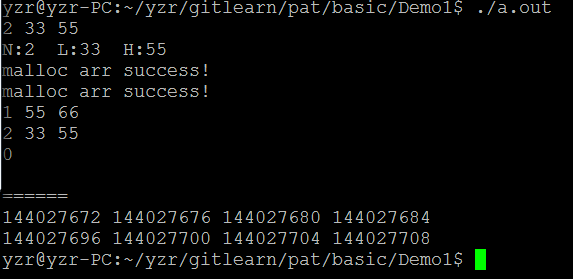
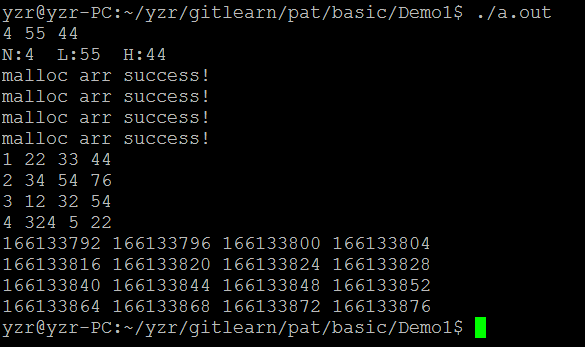
1015 bata1, can putout but sort err！

Changed region(s): [[0.0, 0.0, 0.9791, 0.9749]]

diff --git a/pat/basic/Demo1/1015.c b/pat/basic/Demo1/1015.c
@@ -1,5 +1,6 @@
 #include "stdlib.h"
 #include "stdio.h"
+#include "string.h"
 
 int **input_info (int N)
 {
@@ -13,9 +14,10 @@ int **input_info (int N)
     }
     for (i = 0; i < N; i++)
     {
-        p_stu[i] = (int*)malloc(3*sizeof(int));
-        //*(p_stu+i) = (in*)malloc(3*sizeof(int));
-        printf("malloc arr success!\n");
+        //p_stu[i] = (int*)malloc(3*sizeof(int));//分配N行* 3列数组
+        p_stu[i] = (int*)malloc(4*sizeof(int));//分配N行 *4列 第四列用来存放状态信息，注意释放也要改为4；
+        //*(p_stu+i) = (int*)malloc(3*sizeof(int));
+        //        printf("malloc arr success!\n");
     }
 
     return p_stu;
@@ -43,6 +45,132 @@ int arr_free(int **p_stu, int row)
     return 0;
 }
 
+int classify_stu(int ** p_stu, int N, int H, int L)
+{
+    int ret = 1, i = 0, j = 0, p = 0, q = 0, y = 0;
+    int great[100][4], mid[100][4],last[100][4],nor[100][4];
+    if (NULL == p_stu)
+    {
+        ret = 0;
+        printf("p_stu err!\n");
+        return ret;
+    }
+
+    for (i = 0; i < N; i++)
+    {
+        p_stu[i][3] = p_stu[i][1] + p_stu[i][2];
+        if (p_stu[i][1] >= H && p_stu[i][2] >= H)
+        {
+            memcpy(*(great+j), *(p_stu+i), sizeof(int)*4);
+            //printf("great:%d\n", great[j][3]);
+            j++;
+        }
+        else if (p_stu[i][1] >= H && p_stu[i][2] >= L && p_stu[i][2] < H)
+        {
+            memcpy(*(mid+p), *(p_stu+i), sizeof(int)*4);
+            //printf("mid:%d\n", mid[p][3]);
+            p++;
+        }
+        else if (p_stu[i][1] >= L && p_stu[i][1] < H && p_stu[i][2] >=L && p_stu[i][2] < H && p_stu[i][1] >= p_stu[i][2])
+        {
+            memcpy(*(last+q), *(p_stu+i), sizeof(int)*4);
+            //printf("last:%d\n", last[q][3]);
+            q++;
+        }
+        else if (p_stu[i][1] >= L && p_stu[i][1] < H && p_stu[i][2] >=L && p_stu[i][2] < H)
+        {
+            memcpy(*(nor+q), *(p_stu+i), sizeof(int)*4);
+            //printf("nor:%d\n", nor[y][3]);
+            y++;
+        }
+    }
+
+    //printf("做标记ok,j:%d\n",j);
+    printf ("%d", j + p + q + y);
+        sort_socre(great, 1, j);
+        sort_socre(mid, 2, p);
+        sort_socre(last, 3, q);
+        sort_socre(nor, 4, y);
+
+    return ret;
+}
+
+int sort_socre(int (*sort_arr)[4], int status, int ac_num)
+{
+    int i = 0, j = ac_num, k = 0, q = 0;
+    //printf("打印sort_arr:%d\n", sort_arr[0][3]);
+    if (NULL == sort_arr)
+    {
+        printf("sort_score err");
+        return 0;
+    }
+    //int **new_sort_arr = input_info(ac_num);
+//    int sort_arr[10][4] = {0} ;
+    int tmp[1][4] = {0};
+
+    //printf("打印排序 j:%d\n",j);
+    //比总分
+    for (k = 0; k < j ; k++)
+    {
+
+    //printf("打印crcle k:%d\n", k);
+    //printf("打印sort_arr:%d\n", sort_arr[k][3]);
+        for (q = k+1; q < j-1; q++)
+        {
+            if (sort_arr[k][3] <= sort_arr[q][3])
+            {
+    //printf("打印crcle k:%d\n", sort_arr[k][3]);
+                memcpy (*tmp, *(sort_arr + k), sizeof(int)*4);
+                //printf("\n====\ntmp:%d  %d  %d\n", tmp[0][1], tmp[0][2], tmp[0][3]);
+                //printf("dayin:sort 1 :%d  ", sort_arr[k][1]);
+                memcpy (*(sort_arr + k), *(sort_arr + q), sizeof(int)*4);
+                memcpy (*(sort_arr + q), *tmp, sizeof(int)*4);
+                /*
+                   tmp = sort_arr[k];
+                   sort_arr[k] = sort_arr[q];
+                   sort_arr[q] = tmp;
+                   */
+            }
+        }
+    }
+    //比单项分
+    for (k = 0; k < j; k++)
+    {
+        for (q = k+1; q < j-1; q++)
+        {
+            if (sort_arr[k][3] == sort_arr[q][3] && sort_arr[k][1] != sort_arr[q][1])
+            {
+                if ( sort_arr[k][1] <= sort_arr[q][1] )
+                {
+                    memcpy (*tmp, *(sort_arr + k), sizeof(int)*4);
+                    memcpy (*(sort_arr + k), *(sort_arr + q), sizeof(int)*4);
+                    memcpy (*(sort_arr + q), *tmp, sizeof(int)*4);
+                }
+            }
+        }
+    }
+    //比序号
+    for (k = 0; k < j; k++)
+    {
+        for (q = k+1; q < j-1; q++)
+        {
+            if (sort_arr[k][3] == sort_arr[q][3] && sort_arr[k][1] == sort_arr[q][1] )
+            {
+                if (sort_arr[k][0] > sort_arr[q][0])
+                {
+                    memcpy (*tmp, *(sort_arr + k), sizeof(int)*4);
+                    memcpy (*(sort_arr + k), *(sort_arr + q), sizeof(int)*4);
+                    memcpy (*(sort_arr + q), *tmp, sizeof(int)*4);
+                }
+            }
+        }
+    }
+    for (k = 0; k < j; k++)
+    {
+        printf("%d %d %d\n", sort_arr[k][0], sort_arr[k][1], sort_arr[k][2]);
+    }
+}
+
 int main()
 {
 
@@ -50,8 +178,9 @@ int main()
     int i, j, k;
     int **p_stu = NULL;
 
+    int total_score;
     scanf("%d%d%d", &N, &L, &H);
-    printf("N:%d  L:%d  H:%d\n", N, L, H);
+    //    printf("N:%d  L:%d  H:%d\n", N, L, H);
 
     p_stu = input_info(N);
 
@@ -61,19 +190,23 @@ int main()
         {
             scanf("%d",&p_stu[i][j]);
         }
+        p_stu[i][3] = 0;
     }
 
-    for (i = 0; i < N; i++)
-    {
-        for (j = 0; j < 3; j++)
-        {
-            printf("%d ",p_stu[i][j]);
-        }
-        printf("\n");
-    }
+    classify_stu(p_stu, N, H, L);
+    //total_score = p_stu[i][1] + p_stu[i][2];
+    /*    for (i = 0; i < N; i++)
+          {
+          for (j = 0; j < 4; j++)
+          {
+          printf("%d ",*(*(p_stu + i) + j));
+          }
+          printf("\n");
+          }
+          */
     if (NULL != p_stu)
     {
-        arr_free(p_stu,3);
+        arr_free(p_stu, N);
         p_stu = NULL;
     }
 

diff --git a/pat/basic/Demo1/errblog/copy_nXn复制二维数组.c b/pat/basic/Demo1/errblog/copy_nXn复制二维数组.c
@@ -55,7 +55,7 @@ int main()
             scanf("%d", &input[i][j]);
         }
     }
-    printf("=====diyige:\n");
+    printf("打印保存的数组input:\n");
     for (i = 0; i < line_num; i++)
     {
         for (j = 0; j < row_num; j++)
@@ -67,12 +67,17 @@ int main()
     printf("=====\n");
 
 //复制 n*3 二维数组
-   // int (*p_copy)[3];
-    int coparr[3][3];
+    int coparr[1][3];
     for (i = 0; i < 3; i++)
     {
         //*coparr[i] = *input[i];
-        memcpy(*(coparr+i), *(input+i), sizeof(int)*3);
+        memcpy(*coparr, *(input+i), sizeof(int)*3);
+       // memcpy(coparr[0], input[i], sizeof(int)*3);
+        for (j = 0; j < 3; j++)
+        {
+            printf("copy:%d ", coparr[0][j]);
+        }
+        printf("\n");
     }
 
     if (NULL != input)
@@ -81,16 +86,6 @@ int main()
         input = NULL;
     }
 
-    printf("\ncopp\n=====\n");
-    for (i = 0; i < 3; i++)
-    {
-        for (j = 0; j < 3; j++)
-        {
-            printf("%d ", coparr[i][j]);
-        }
-        printf("\n");
-    }
-    printf("\ncopp\n=====\n");
 //        printf("input[i]:%d\n", input[0]);
     return 0;
 }
